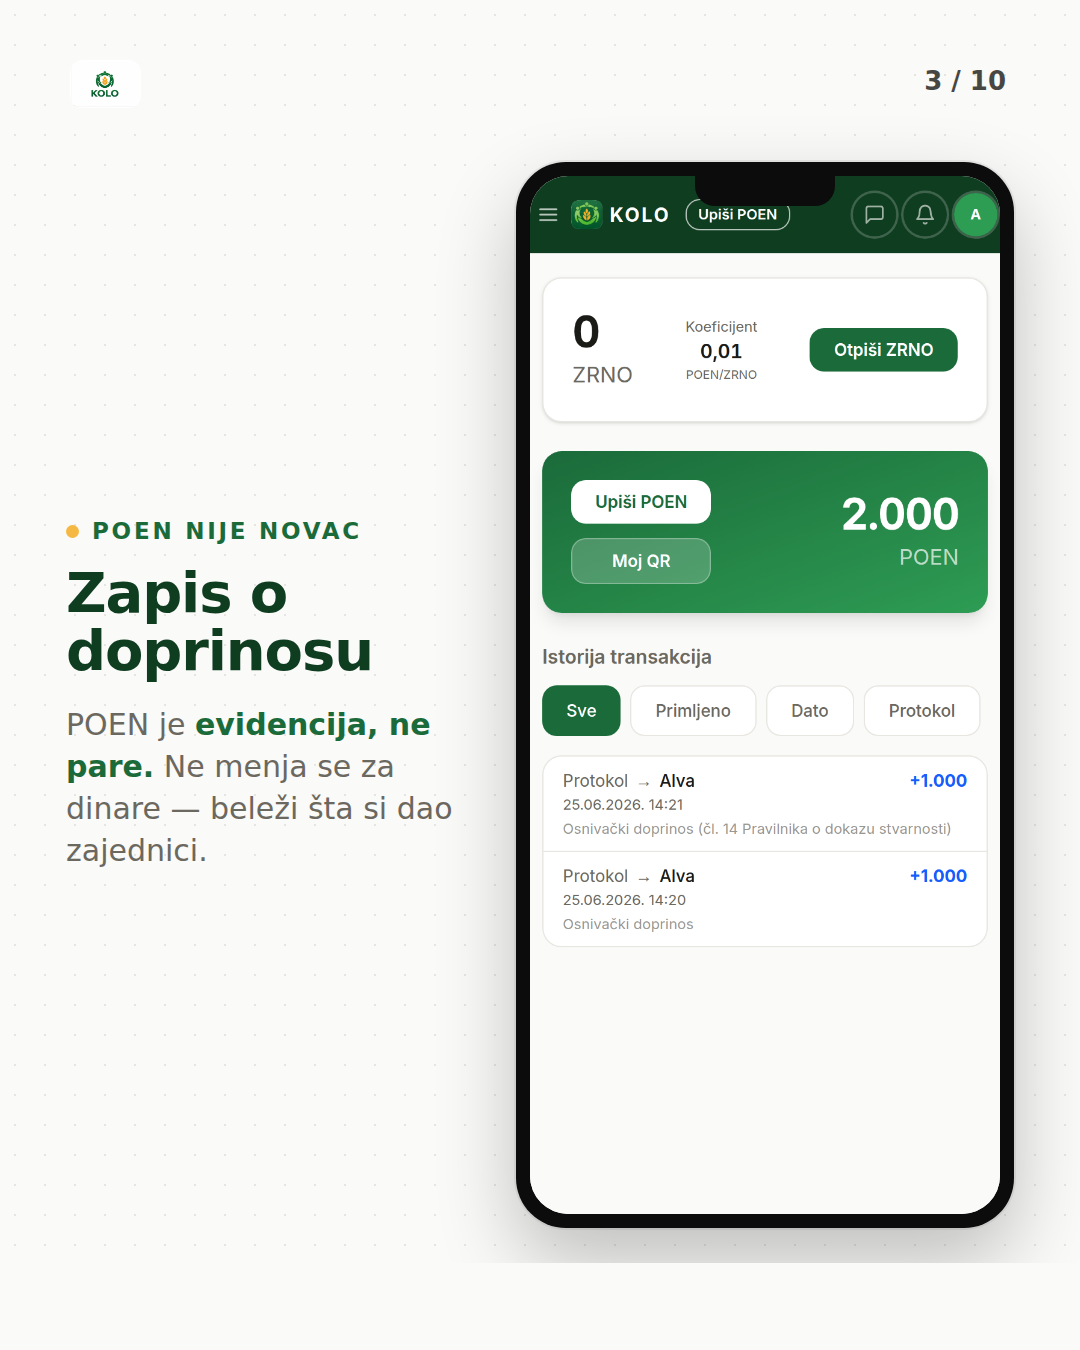
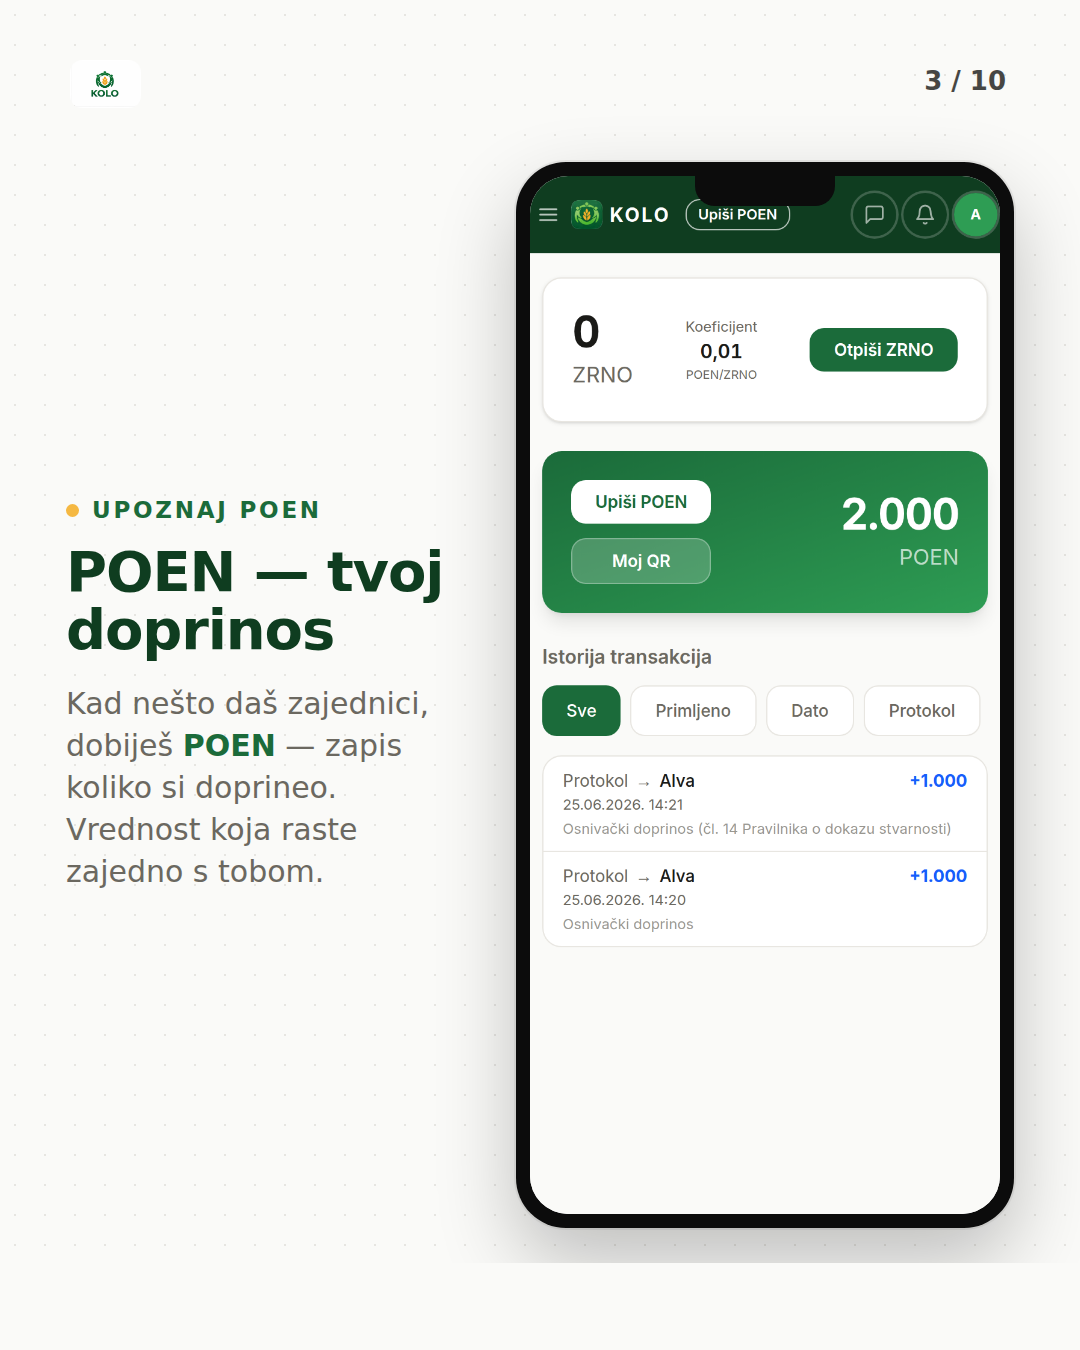
Karusel: edukativni 2/3 bez negacija + slajd 4 = /uskoro sa zaokruženim kodom
- Slajd 2 (Šta je KOLO) i 3 (Upoznaj POEN): topli, pozitivni edukativni
  tekstovi bez negacija ("Tvoj kraj, povezan"; "POEN — tvoj doprinos")
- Slajd 4: umesto grafike sada snimak /uskoro sa ZAOKRUŽENIM linkom
  "Imaš pristupni kod?" (callout + "klikni ovde")
- screenshot.mjs hvata i /uskoro; README usklađen

Claude-Session: https://claude.ai/code/session_01A7bQVxSHeSz71wJ42xFBAB

Changed region(s): [[0.0611, 0.3733, 0.4278, 0.6533]]

diff --git a/marketing/onboarding-carousel/slajdovi/slajd-03.html b/marketing/onboarding-carousel/slajdovi/slajd-03.html
@@ -49,8 +49,8 @@ h1 .gold{color:#F5B842}
     
   </div></div>
   <div class="col-text">
-    <div class="kicker"><span class="pip"></span>POEN NIJE NOVAC</div>
-    <h1>Zapis o<br>doprinosu</h1>
-    <p class="lead">POEN je <b>evidencija, ne pare.</b> Ne menja se za dinare — beleži šta si dao zajednici.</p>
+    <div class="kicker"><span class="pip"></span>UPOZNAJ POEN</div>
+    <h1>POEN — tvoj<br>doprinos</h1>
+    <p class="lead">Kad nešto daš zajednici, dobiješ <b>POEN</b> — zapis koliko si doprineo. Vrednost koja raste zajedno s tobom.</p>
   </div>
 </div></body></html>

diff --git a/marketing/onboarding-carousel/slajdovi/slajd-02.html b/marketing/onboarding-carousel/slajdovi/slajd-02.html
@@ -50,7 +50,7 @@ h1 .gold{color:#F5B842}
   </div></div>
   <div class="col-text">
     <div class="kicker"><span class="pip"></span>ŠTA JE KOLO?</div>
-    <h1>Razmena u<br>tvom kraju</h1>
-    <p class="lead">Rad, dobra i znanje sa ljudima oko sebe — <b>bez posrednika i provizije.</b></p>
+    <h1>Tvoj kraj,<br>povezan</h1>
+    <p class="lead">KOLO spaja komšije, majstore i domaćine na jednom mestu — razmenjuješ rad, dobra i znanje, a <b>svaki doprinos ostaje zabeležen.</b></p>
   </div>
 </div></body></html>

diff --git a/marketing/onboarding-carousel/README.md b/marketing/onboarding-carousel/README.md
@@ -3,8 +3,8 @@
 Karusel za društvene mreže (Instagram / Facebook) za uvođenje novih članova u zatvorenoj test fazi.
 
 ## Šta je u folderu
-- `png/slajd-01.png … slajd-10.png` — **10 gotovih slajdova** za objavu, format **1080 × 1350 px** (4:5, portret — najbolji za IG karusel). **Trenutno = verzija sa PRAVIM screenshotovima ekrana**: uvećan telefonski okvir **sa strane, naizmenično levo/desno**, a tekst (kicker + naslov + opis) ide **pored** njega, vertikalno centriran. Naslovnica (1), „test faza" (4) i CTA (10) su brendirana grafika.
-- `screenshots/*.png` — sirovi screenshotovi ekrana aplikacije (ulaz za slajdove sa telefonom). Na slajdu sa pristupnim kodom polje je **zaokruženo** (callout) preko snimka.
+- `png/slajd-01.png … slajd-10.png` — **10 gotovih slajdova** za objavu, format **1080 × 1350 px** (4:5, portret — najbolji za IG karusel). **Trenutno = verzija sa PRAVIM screenshotovima ekrana**: uvećan telefonski okvir **sa strane, naizmenično levo/desno**, a tekst (kicker + naslov + opis) ide **pored** njega, vertikalno centriran. Naslovnica (1) i CTA (10) su brendirana grafika; ostali nose snimak ekrana.
+- `screenshots/*.png` — sirovi screenshotovi ekrana aplikacije (ulaz za slajdove sa telefonom). Na slajdu 4 (`/uskoro`) zaokružen je link „Imaš pristupni kod?", a na slajdu 5 (`/rani-pristup`) polje za kod — oba kao **callout** preko snimka.
 - `slajdovi/*.html` — izvorni HTML svakog slajda (za sitne izmene teksta).
 - `generisi-screenshot.mjs` — generator karusela **sa screenshotovima** (aktuelna verzija u `png/`).
 - `generisi.mjs` — generator alternativne, **ilustrovane** verzije (bez screenshotova, samo grafika/emoji). Pokreni ga ako želiš taj izgled umesto screenshotova.
@@ -13,9 +13,9 @@ Karusel za društvene mreže (Instagram / Facebook) za uvođenje novih članova 
 
 ## Redosled slajdova (verzija sa screenshotovima)
 1. **Naslovnica** — „Kako da uđeš u KOLO" (grafika, hook + ekolo.rs)
-2. **Šta je KOLO** — *landing* ekran; razmena u tvom kraju, bez posrednika
-3. **POEN nije novac** — *novčanik* ekran; zapis o doprinosu, ne menja se za dinare
-4. **Zatvorena test faza** — grafika; objašnjava da je ulazak preko pristupnog koda
+2. **Šta je KOLO** — *landing* ekran; topao edukativni tekst („Tvoj kraj, povezan")
+3. **Upoznaj POEN** — *novčanik* ekran; POEN kao zapis tvog doprinosa (pozitivno, bez negacija)
+4. **Zatvorena test faza** — *uskoro* ekran (`/uskoro`), **zaokružen** link „Imaš pristupni kod?"; objašnjava da je ulazak preko koda
 5. **Korak 1 — Pristupni kod** — *rani-pristup* ekran (`/rani-pristup`), polje za kod **zaokruženo**; unese se kod koji dobiješ od nas → otključava prijavu/registraciju
 6. **Korak 2 — Registracija** — *registracija* ekran; pseudonim/email/lozinka, bez dokumenata, javno samo pseudonim
 7. **Korak 3 — Verifikacija** — *verifikacija* ekran; potvrde te ljudi koji te poznaju (indeks ≥ 10%)